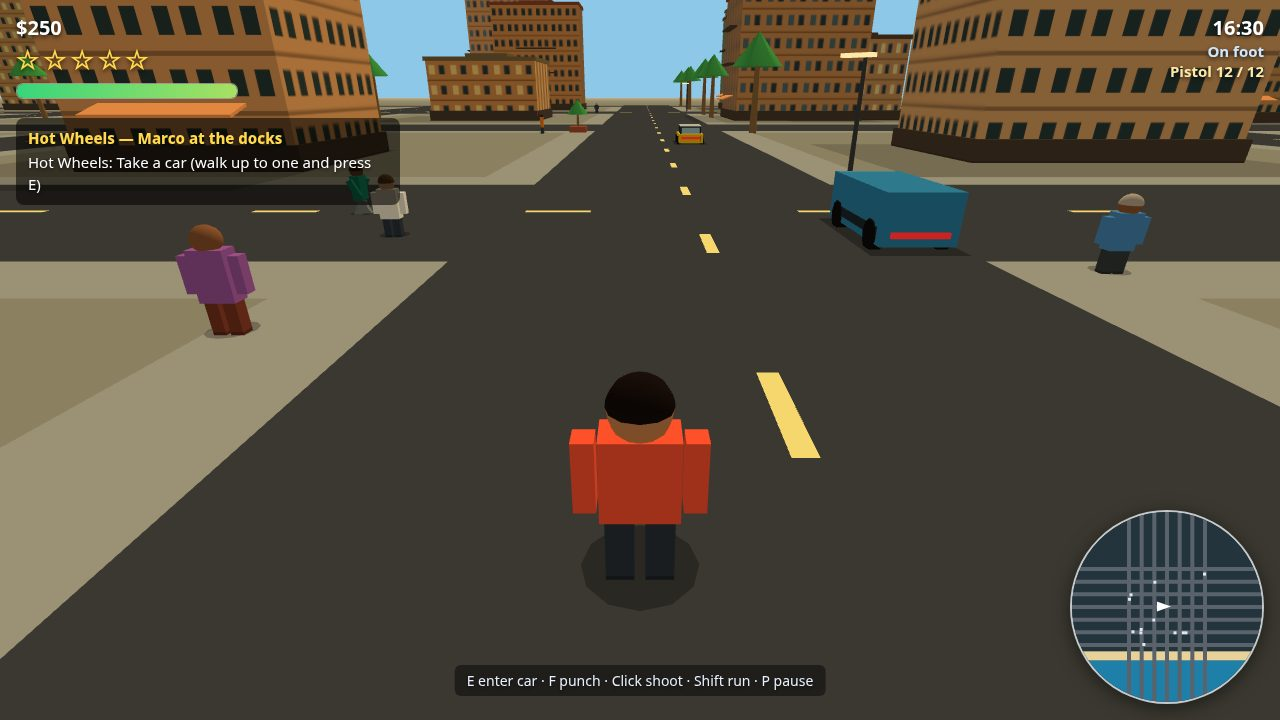
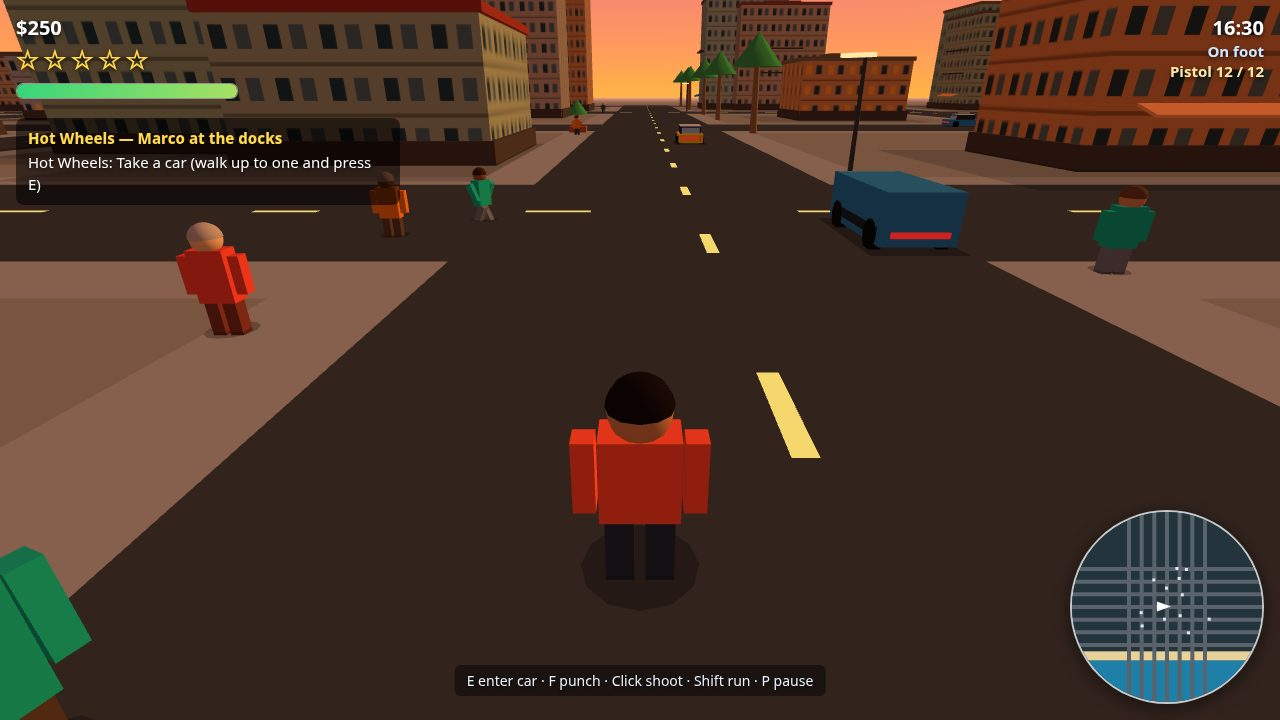
Palmera City v3 R1: sunset grade — gradient sky, sun disc, warm fog, lit windows, sea gradient

diff --git a/game/src/world.js b/game/src/world.js
@@ -29,7 +29,11 @@ function windowTexture(rng) {
   // contact-sheet scale, two read as windows.
   for (const x of [8, 37]) {
     const r = rng.next();
-    g.fillStyle = r < 0.35 ? '#ffe9a8' : r < 0.75 ? '#2e4a5a' : '#5a7a8a';
+    // v3 sunset grade: ~25% of windows are lit warm (kuning-oranye terang) —
+    // the city reads as lived-in at dusk; the rest are dark glass or glass
+    // catching the pink sky. Same seeded rng, so the pattern is stable.
+    if (r < 0.25) g.fillStyle = rng.pick(['#ffd76a', '#ffb347', '#ffe9a8']);
+    else g.fillStyle = r < 0.65 ? '#2e4a5a' : '#5a7a8a';
     g.fillRect(x, 13, 17, 27);
   }
   // Floor line under the row of windows.
@@ -39,6 +43,66 @@ function windowTexture(rng) {
   tex.colorSpace = THREE.SRGBColorSpace;
   tex.wrapS = THREE.RepeatWrapping;
   tex.wrapT = THREE.RepeatWrapping;
+  return tex;
+}
+
+// v3 sunset sky dome texture: a vertical canvas gradient mapped on the
+// inside of a big sphere. Canvas top (v=1) is the zenith, canvas middle
+// (v=0.5) is the horizon line, so the orange band sits exactly at y≈256.
+function skyTexture() {
+  const c = document.createElement('canvas');
+  c.width = 4;
+  c.height = 512;
+  const g = c.getContext('2d');
+  const grad = g.createLinearGradient(0, 0, 0, 512);
+  grad.addColorStop(0, '#3a2a5e'); // zenith purple
+  grad.addColorStop(0.3, '#6a3a7e');
+  grad.addColorStop(0.42, '#e86a92'); // pink band
+  grad.addColorStop(0.48, '#ff9a5c');
+  grad.addColorStop(0.5, '#ffb347'); // horizon orange
+  grad.addColorStop(0.56, '#e88a5c'); // below the horizon (mostly hidden)
+  grad.addColorStop(1, '#7a4a5e');
+  g.fillStyle = grad;
+  g.fillRect(0, 0, 4, 512);
+  const tex = new THREE.CanvasTexture(c);
+  tex.colorSpace = THREE.SRGBColorSpace;
+  return tex;
+}
+
+// v3 sea texture: a vertical gradient on the sea plane. Canvas top maps to
+// the shoreline edge (deep teal), canvas bottom to the far southern edge,
+// where a pink→orange band fakes the sunset reflection near the horizon.
+function seaTexture() {
+  const c = document.createElement('canvas');
+  c.width = 16;
+  c.height = 256;
+  const g = c.getContext('2d');
+  const grad = g.createLinearGradient(0, 0, 0, 256);
+  grad.addColorStop(0, '#14688c'); // shore: deep teal
+  grad.addColorStop(0.55, '#1e7fa8');
+  grad.addColorStop(0.85, '#e86a92'); // pink reflection
+  grad.addColorStop(1, '#ffb347'); // warm band at the horizon
+  g.fillStyle = grad;
+  g.fillRect(0, 0, 16, 256);
+  const tex = new THREE.CanvasTexture(c);
+  tex.colorSpace = THREE.SRGBColorSpace;
+  return tex;
+}
+
+// Soft radial glow sprite texture (sun halo) — additive, fades to nothing.
+function glowTexture() {
+  const c = document.createElement('canvas');
+  c.width = 128;
+  c.height = 128;
+  const g = c.getContext('2d');
+  const grad = g.createRadialGradient(64, 64, 0, 64, 64, 64);
+  grad.addColorStop(0, 'rgba(255,190,110,0.85)');
+  grad.addColorStop(0.35, 'rgba(255,150,90,0.35)');
+  grad.addColorStop(1, 'rgba(255,140,90,0)');
+  g.fillStyle = grad;
+  g.fillRect(0, 0, 128, 128);
+  const tex = new THREE.CanvasTexture(c);
+  tex.colorSpace = THREE.SRGBColorSpace;
   return tex;
 }
 
@@ -109,11 +173,35 @@ export function createWorld(scene, rng) {
   sand.position.set(0, 0.05, CITY.beachZ + 20);
   group.add(sand);
 
-  const seaMat = new THREE.MeshLambertMaterial({ color: PALETTE.sea, transparent: true, opacity: 0.92 });
+  // v3: the sea wears the sunset gradient texture (deep teal at the shore,
+  // warm band at the horizon) instead of one flat colour.
+  const seaMat = new THREE.MeshLambertMaterial({ map: seaTexture(), transparent: true, opacity: 0.92 });
   const sea = new THREE.Mesh(new THREE.PlaneGeometry(CITY.size * 2, 300), seaMat);
   sea.rotation.x = -Math.PI / 2;
   sea.position.set(0, 0.02, CITY.seaZ + 130);
   group.add(sea);
+
+  // v3 sun glitter: two thin additive strips on the water, aligned with the
+  // sun's azimuth (the disc sits low over the southern sea at x≈+70), so the
+  // sunset throws a warm path across the water toward the beach.
+  const glitterMat = new THREE.MeshBasicMaterial({
+    color: 0xffc46a, transparent: true, opacity: 0.15,
+    blending: THREE.AdditiveBlending, depthWrite: false, fog: false,
+  });
+  const glitter = new THREE.Mesh(new THREE.PlaneGeometry(52, 280), glitterMat);
+  glitter.rotation.x = -Math.PI / 2;
+  glitter.position.set(70, 0.14, CITY.seaZ + 120);
+  group.add(glitter);
+  const glitterCore = new THREE.Mesh(
+    new THREE.PlaneGeometry(17, 280),
+    new THREE.MeshBasicMaterial({
+      color: 0xffd98f, transparent: true, opacity: 0.2,
+      blending: THREE.AdditiveBlending, depthWrite: false, fog: false,
+    }),
+  );
+  glitterCore.rotation.x = -Math.PI / 2;
+  glitterCore.position.set(70, 0.15, CITY.seaZ + 120);
+  group.add(glitterCore);
 
   // v2 shoreline: a band of darker wet sand where the water meets the
   // beach, and a wavy foam line on top of it. v1's sand simply stopped at
@@ -404,7 +492,7 @@ export function createWorld(scene, rng) {
   // in the driving shots is not one flat colour. fog:false — at their
   // distance the city haze would erase them entirely.
   const cloudMat = new THREE.MeshBasicMaterial({
-    color: 0xffffff, transparent: true, opacity: 0.5, depthWrite: false,
+    color: 0xffc9d6, transparent: true, opacity: 0.45, depthWrite: false,
     side: THREE.DoubleSide, fog: false,
   });
   for (let i = 0; i < 8; i += 1) {
@@ -417,16 +505,41 @@ export function createWorld(scene, rng) {
     group.add(cloud);
   }
 
-  // Sun, sky and haze — a low golden sun, warm bounce light. v2 adds a
-  // hemisphere light (sky above, sand below) and trims the flat ambient, so
-  // shaded facades keep a cool/warm split instead of one flat tone.
-  const sun = new THREE.DirectionalLight(PALETTE.sun, 2.7);
-  sun.position.set(120, 180, 60);
+  // v3 sunset sky: a gradient dome replaces the flat background colour, and
+  // a bright sun disc + additive halo sit low over the southern sea (+z),
+  // on the same azimuth as the glitter path on the water. fog:false on all
+  // three materials — at dome distance the haze would erase them.
+  const skyDome = new THREE.Mesh(
+    new THREE.SphereGeometry(900, 24, 16),
+    new THREE.MeshBasicMaterial({ map: skyTexture(), side: THREE.BackSide, fog: false }),
+  );
+  group.add(skyDome);
+  const sunDisc = new THREE.Mesh(
+    new THREE.CircleGeometry(22, 24),
+    new THREE.MeshBasicMaterial({ color: 0xfff3c4, fog: false }),
+  );
+  sunDisc.position.set(70, 24, 440);
+  sunDisc.lookAt(0, 24, 0);
+  group.add(sunDisc);
+  const sunHalo = new THREE.Sprite(new THREE.SpriteMaterial({
+    map: glowTexture(), blending: THREE.AdditiveBlending,
+    transparent: true, depthWrite: false, fog: false,
+  }));
+  sunHalo.position.set(70, 24, 438);
+  sunHalo.scale.set(190, 190, 1);
+  group.add(sunHalo);
+
+  // Sun, light and haze — v3 sunset grade: the directional sun is warmer
+  // and dominant, the flat ambient is trimmed down, and the hemisphere
+  // light carries the pink sky / warm sand split, so shaded facades read
+  // as dusk instead of flat grey. Fog is warmer and closer, layering the
+  // city into sunset depth.
+  const sun = new THREE.DirectionalLight(PALETTE.sun, 3.0);
+  sun.position.set(80, 110, 190);
   scene.add(sun);
-  scene.add(new THREE.AmbientLight(0xffe2b8, 0.72));
-  scene.add(new THREE.HemisphereLight(0xbfd9e8, 0xe8d29a, 0.55));
-  scene.background = new THREE.Color(PALETTE.sky);
-  scene.fog = new THREE.Fog(PALETTE.fog, 180, 520);
+  scene.add(new THREE.AmbientLight(0xffb59a, 0.38));
+  scene.add(new THREE.HemisphereLight(0xf2a0b8, 0xcf9a62, 0.65));
+  scene.fog = new THREE.Fog(PALETTE.fog, 150, 430);
 
   return {
     group,

diff --git a/game/src/config.js b/game/src/config.js
@@ -47,9 +47,9 @@ export const MONEY = {
 };
 
 export const PALETTE = {
-  sky: 0x8ec8e8,
-  fog: 0xd8c8a8, // warm coastal haze, not cold blue
-  sun: 0xffdf9e, // low golden sun
+  sky: 0x3a2a5e, // sunset zenith purple (the sky dome texture carries the full gradient)
+  fog: 0xf2a488, // pink-peach sunset haze
+  sun: 0xffb36b, // low warm sunset sun
   asphalt: 0x3a3f46,
   sidewalk: 0x9aa0a3,
   sand: 0xe8d29a,
